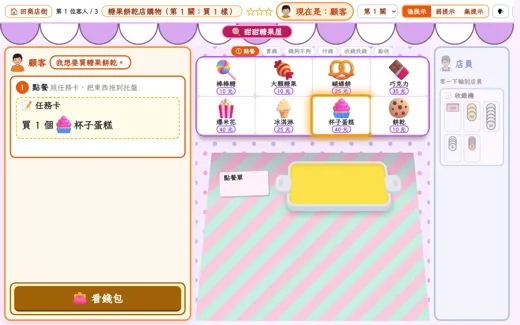
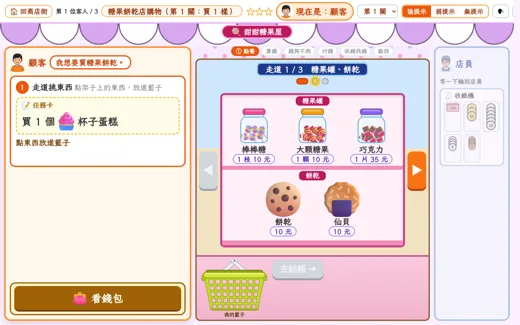
S2 前端：糖果餅乾店、玩具店自助選購（catalog、縮圖、截圖、規劃稿）＋桌面用色一致
Claude-Session: https://claude.ai/code/session_011NSASVxub988hrButXXVd9

diff --git a/CLAUDE.md b/CLAUDE.md
@@ -17,7 +17,7 @@
 | **早餐店購物遊戲**（顧客／店員輪流、綜合四則與錢幣；2026-11-08 規劃中；**第 5 關「自由配」自己選、虛線錢幣比一比錢夠不夠；第 6 關「折價券」先乘再減；都在 2026-11-11，早餐店、麵包店都有；2026-11-13 起所有關卡的強提示都多一步「錢夠不夠」（設定檔 `moneyCheck`）**）的定案事項、流程、關卡、實作步驟 | [`docs/早餐店購物遊戲_規劃.md`](docs/早餐店購物遊戲_規劃.md)；模擬圖 `docs/mock-breakfast-shop/` |
 | **麵包店購物遊戲**（2026-11-10；與早餐店**同一份程式換主題**，多第 7 關「哪袋划算」：紅袋藍袋比單價；**2026-11-11 已把天平改成「從袋子拿出 1 個、排 10 元／1 元錢幣比多少」＋「換成 1 元檢驗」按鈕，後端已實作（2026-11-11）**，交接說明 `docs/後端提示_哪袋划算改版.md`；**每個店家的裝潢都要不同**，角色色橘／藍不換；**2026-11-13 袋子改透明麵包袋造型、不寫紅袋藍袋、價錢浮在袋底**）的定案、菜單、第 5 關設計 | [`docs/麵包店購物遊戲_規劃.md`](docs/麵包店購物遊戲_規劃.md)；菜單草案 `docs/mock-bakery-shop/`；實作在後端 `game_shop.SHOPS`＋`docs/guide/game-shop.md`「多家店」 |
 | **商店街新增店家**（使用者 2026-11-14：飲料店、文具店、玩具店、便當店、中式餐館、糖果餅乾店、服飾店（鞋店延後）；維持 99 元以內、Fluent Emoji 3D 圖、第 1～6 關；**規劃已定案，分 0～4 批交給 Sonnet**；遊戲主題取名 `遊戲_<店名>` 避免和紙本主題撞名） | [`docs/商店街新增店家_規劃.md`](docs/商店街新增店家_規劃.md) |
-| **自助選購店**（使用者 2026-11-17 選定：文具店、糖果餅乾店、玩具店、服飾店改成「全景進門（模擬圖 A①）→ 走道左右換段挑東西放進購物籃（D）→ 櫃台結帳」；糖果用罐子；**便當店下架**，等三位數做套餐便當（Gemini 生圖），catalog 的 `offline` 記刻意下架的端點；**S1（引擎＋文具店）已實作 2026-11-17，結果見規劃稿「S1 結果」**） | [`docs/自助選購店_規劃.md`](docs/自助選購店_規劃.md)；模擬圖 `docs/mock-selfserve/` |
+| **自助選購店**（使用者 2026-11-17 選定：文具店、糖果餅乾店、玩具店、服飾店改成「全景進門（模擬圖 A①）→ 走道左右換段挑東西放進購物籃（D）→ 櫃台結帳」；糖果用罐子；**便當店下架**，等三位數做套餐便當（Gemini 生圖），catalog 的 `offline` 記刻意下架的端點；**S1（引擎＋文具店）、S2（糖果餅乾店＝玻璃糖果罐點一下拿 1 個、玩具店）已實作 2026-11-17，結果見規劃稿「S1 結果」「S2 結果」；現在點餐型只剩早餐店、麵包店**） | [`docs/自助選購店_規劃.md`](docs/自助選購店_規劃.md)；模擬圖 `docs/mock-selfserve/` |
 | **拿錢互動頁**（2026-11-11，**已實作**，2026-11-12 調整：後端 `/interactive/take-money`、catalog 的 `tm`／`tmshop` 各 4 張卡（拿出指定的錢／有 5、50 元／湊錢不跨位／湊錢跨位）；**金額範圍＝頁面上方下拉選單**；給金額→學生自己拿錢；**基本版＝位值板橫帶、應用版＝買東西付錢**；**每格每列 5 個、先拿大的錢、錢上標「數到多少元」；按拿好了不檢查，②自己寫每種錢有幾個、送出才一起檢查**）的需求、定案事項、實作計畫 | [`docs/拿錢互動頁_規劃.md`](docs/拿錢互動頁_規劃.md)；模擬圖 `docs/mock-take-money/`（`make.py` 重產） |
 | **勘誤表7**（使用者 2026-11-12，**已實作**）：錢幣位值／進位的位值欄每直行 5 枚、湊十綠框全換完才進下一步、剩下的錢整組拖、**錢幣進位 catalog 併成 3 張卡（`cy-one`／`cy-single`／`cy-sp0`，頁內下拉選單切次類）**、錢幣頁不顯示綠色回饋文字；拿錢頁店員人像、金額標註依位值配色、基本版錢盒在下；購物遊戲新游標、店員／顧客人像隨機抽換、入店動畫（2026-11-14 起每位新客人都走進來、店員（高 160px）出來鞠躬打招呼，見 [`docs/入店動畫改版_規劃.md`](docs/入店動畫改版_規劃.md)；切提示強弱不重播；**同日櫃台改成「牆面＋梯形桌面」**，模擬圖與腳本 `docs/mock-shop-counter/`）、錢幣放大。**同日第二～四輪**：手形游標只給當下能拖的東西、認識湊十兩組一列、換走的錢留在原處變淡、拿錢標註照排列順序並由慢而快逐一跳出＋音效、入店動畫改半身只踏進幾步；**使用者決定不改**：標註配色、「每直行 5 枚／每列 5 個」不統一。⚠ 遊戲縮圖要帶 `noanim=1` 才不會拍到動畫中途（`make_thumbs.py` 已處理） | 計畫、各輪定案與待辦 [`docs/勘誤表7_修改計畫.md`](docs/勘誤表7_修改計畫.md)；通則已寫進 [`docs/教材設計規範.md`](docs/教材設計規範.md) 第 9 節；入店動畫模擬 `docs/mock-shop-enter/`、配色替代案 `docs/mock-place-color/`；實作細節在後端 `interactive-rules.md` 第 56 條、`game-shop.md` |
 | **生圖流程**（使用者 2026-11-11 定案：需要圖一律「Claude Code 寫指令 → 使用者轉貼 Cowork 在 Gemini 生圖、上傳雲端硬碟『遊戲素材／待處理』→ Claude Code 用 Google Drive 下載、去背、對齊」）：指令格式、提示詞寫法、去背坑 | [`docs/生圖流程.md`](docs/生圖流程.md)；去背工具 [`tools/cutout.py`](tools/cutout.py)。**遊戲用到的圖一律去背、也不要用 CSS 墊白底**（使用者 2026-11-13，驗收方法在同一份文件） |

diff --git a/docs/自助選購店_規劃.md b/docs/自助選購店_規劃.md
@@ -50,7 +50,7 @@
 | 批次 | 內容 |
 |---|---|
 | **S1：引擎＋文具店（2026-11-17 已完成，見下方「S1 結果」）** | `mode='self'` 新流程：全景（A①）→ 走道（D）→ 去結帳 → 櫃台拿出來嗶 → 接現有算錢流程；籃子放回、任務卡打勾、提示鍵；文具店改用新流程；Playwright 測試（拿、放回、換段、去結帳、第 1～6 關 × 強弱無、1280 與 1024）；截圖給使用者看 |
-| S2：糖果餅乾店、玩具店 | 糖果罐擺法；兩家改新流程 |
+| **S2：糖果餅乾店、玩具店（2026-11-17 已完成，見「S2 結果」）** | 糖果罐擺法；兩家改新流程 |
 | S3：服飾店 | 新店上線（菜單見商店街規劃稿，衣架擺法、裝潢照第 0 批） |
 | 之後 | 商店街規劃的第 3 批（飲料店、中式餐館，點餐型）照原計畫 |
 
@@ -124,3 +124,27 @@
 - 籃子內寬由商品平均寬 2.5 倍縮到 1.8 倍（全景顧客手上的上限由身高 30% 縮到 24%）。
 - 截圖 `impl_1～5、9`（覆蓋舊檔）。細節見後端 `docs/guide/game-shop.md`「第五輪調整」。
 - **使用者已同意接著做 S2（糖果餅乾店、玩具店）**，下一輪另派。
+
+## S2 結果（2026-11-17，Sonnet 實作）
+
+糖果餅乾店、玩具店改成自助選購（`mode='self'`），引擎與文具店五輪調整全部沿用；點餐型只剩早餐店、麵包店。實作筆記寫在後端 `docs/guide/game-shop.md`「S2」。截圖：`mock-selfserve/candy_1～5_*.png`、`toy_1～5_*.png`。
+
+**實際分段**
+- 糖果餅乾店：走道 1＝糖果罐（棒棒糖、大顆糖果、巧克力）＋餅乾（餅乾、仙貝）5 樣；走道 2＝零食（蝴蝶餅、爆米花）＋冰品點心（冰淇淋、杯子蛋糕）4 樣；走道 3＝櫃台。
+- 玩具店：走道 1＝小玩具（氣球、骰子、魔術棒、撲克牌）＋動動玩具（溜溜球、迴力鏢、沙鈴、迴力車）8 樣；走道 2＝大玩具（水槍、飛鏢靶、小熊娃娃、風箏）單層 4 樣；走道 3＝櫃台。
+- 菜單的名稱與規劃稿略不同處：「小熊」＝菜單「小熊娃娃」。
+
+**糖果罐**：程式畫的玻璃罐 SVG（透明淡藍、反光、彩色罐蓋，罐內堆 6 顆該糖果圖）；價錢牌「1 枝 10 元」；點一下＝拿 1 個，飛進籃子與拖曳抓的都是單顆糖果。糖果類只有 3 樣（棒棒糖、大顆糖果、巧克力）擺成罐子，餅乾零食、冰品點心用一般架子。展示架、牆面配色各店不同（糖果粉紅、玩具藍框紅層板＋黃牆）。
+
+## 桌面用色一致（使用者 2026-11-17 追加，S2 一併完成）
+
+自助選購新加的步驟（結帳桌、全景櫃台、走道底部列）原本寫死木色／藍紫，和點餐流程每店不同的櫃台桌面不一致。改成每店一組 CSS 變數 `--desk`（完整桌面含花紋）、`--deskc`（素色漸層）、`--deskb`（邊框），所有桌面都吃這組（細節與踩坑見後端 `game-shop.md`「桌面用色一致」）。Playwright 每一步比對算出的背景＝變數值，全部相同。截圖 `mock-selfserve/desk_<店>_<步驟>.png`（結帳嗶、算錢、付錢、找錢）。
+
+每步桌面中心偏下取樣的像素色（花紋桌面會隨相位在兩色間變，下表是實際取到的色）：
+
+| 店 | 結帳嗶（`.ctable`） | 算錢 | 付錢 | 找錢 | 桌面色系 |
+|---|---|---|---|---|---|
+| 文具店 | #b4d1f0 | #b4d1f0 | #b4d1f0 | #b3d0ef | 淡藍＋方格線 |
+| 糖果餅乾店 | #f9c9de | #c4efdd | #c4efdd | #c3eedc | 粉紅／薄荷斜條紋（兩色皆屬同一花紋） |
+| 玩具店 | #ffe08a | #6db8f2 | #6db8f2 | #6db8f2 | 黃／藍方格（兩色皆屬同一花紋） |
+| 早餐店（對照） | — | #dea767 | #e1aa6a | #d4a064 | 木紋 |

diff --git a/docs/商店街新增店家_規劃.md b/docs/商店街新增店家_規劃.md
@@ -148,6 +148,8 @@
 
 ## 使用者決定（2026-11-14 第二輪）
 
+> 2026-11-17：糖果餅乾店、玩具店已改成「自助選購」（見 `自助選購店_規劃.md`），不再是點餐型。
+
 1. **鞋店先延後**：這次做 7 家（飲料店、文具店、玩具店、便當店、中式餐館、糖果餅乾店、服飾店）。鞋店等遊戲支援三位數再開。
 2. **紅茶、奶茶用程式改顏色**：同一張 🥤 圖，紅茶改深紅茶色、奶茶改奶色，兩樣都留。
 3. **中式餐館**：水餃把 5 顆排成一盤（量詞「盤」）；**酸辣湯留著**（量詞照圖，用「碗」或「鍋」，第 3 批實作時給使用者看圖再定）；**再加「套餐」**：由兩樣組成、總價 ≤ 99，圖是兩樣並排（例：水餃＋酸辣湯 95 元、湯麵＋蔥油餅 90 元）。套餐的內容與價錢在第 3 批先給使用者確認。
